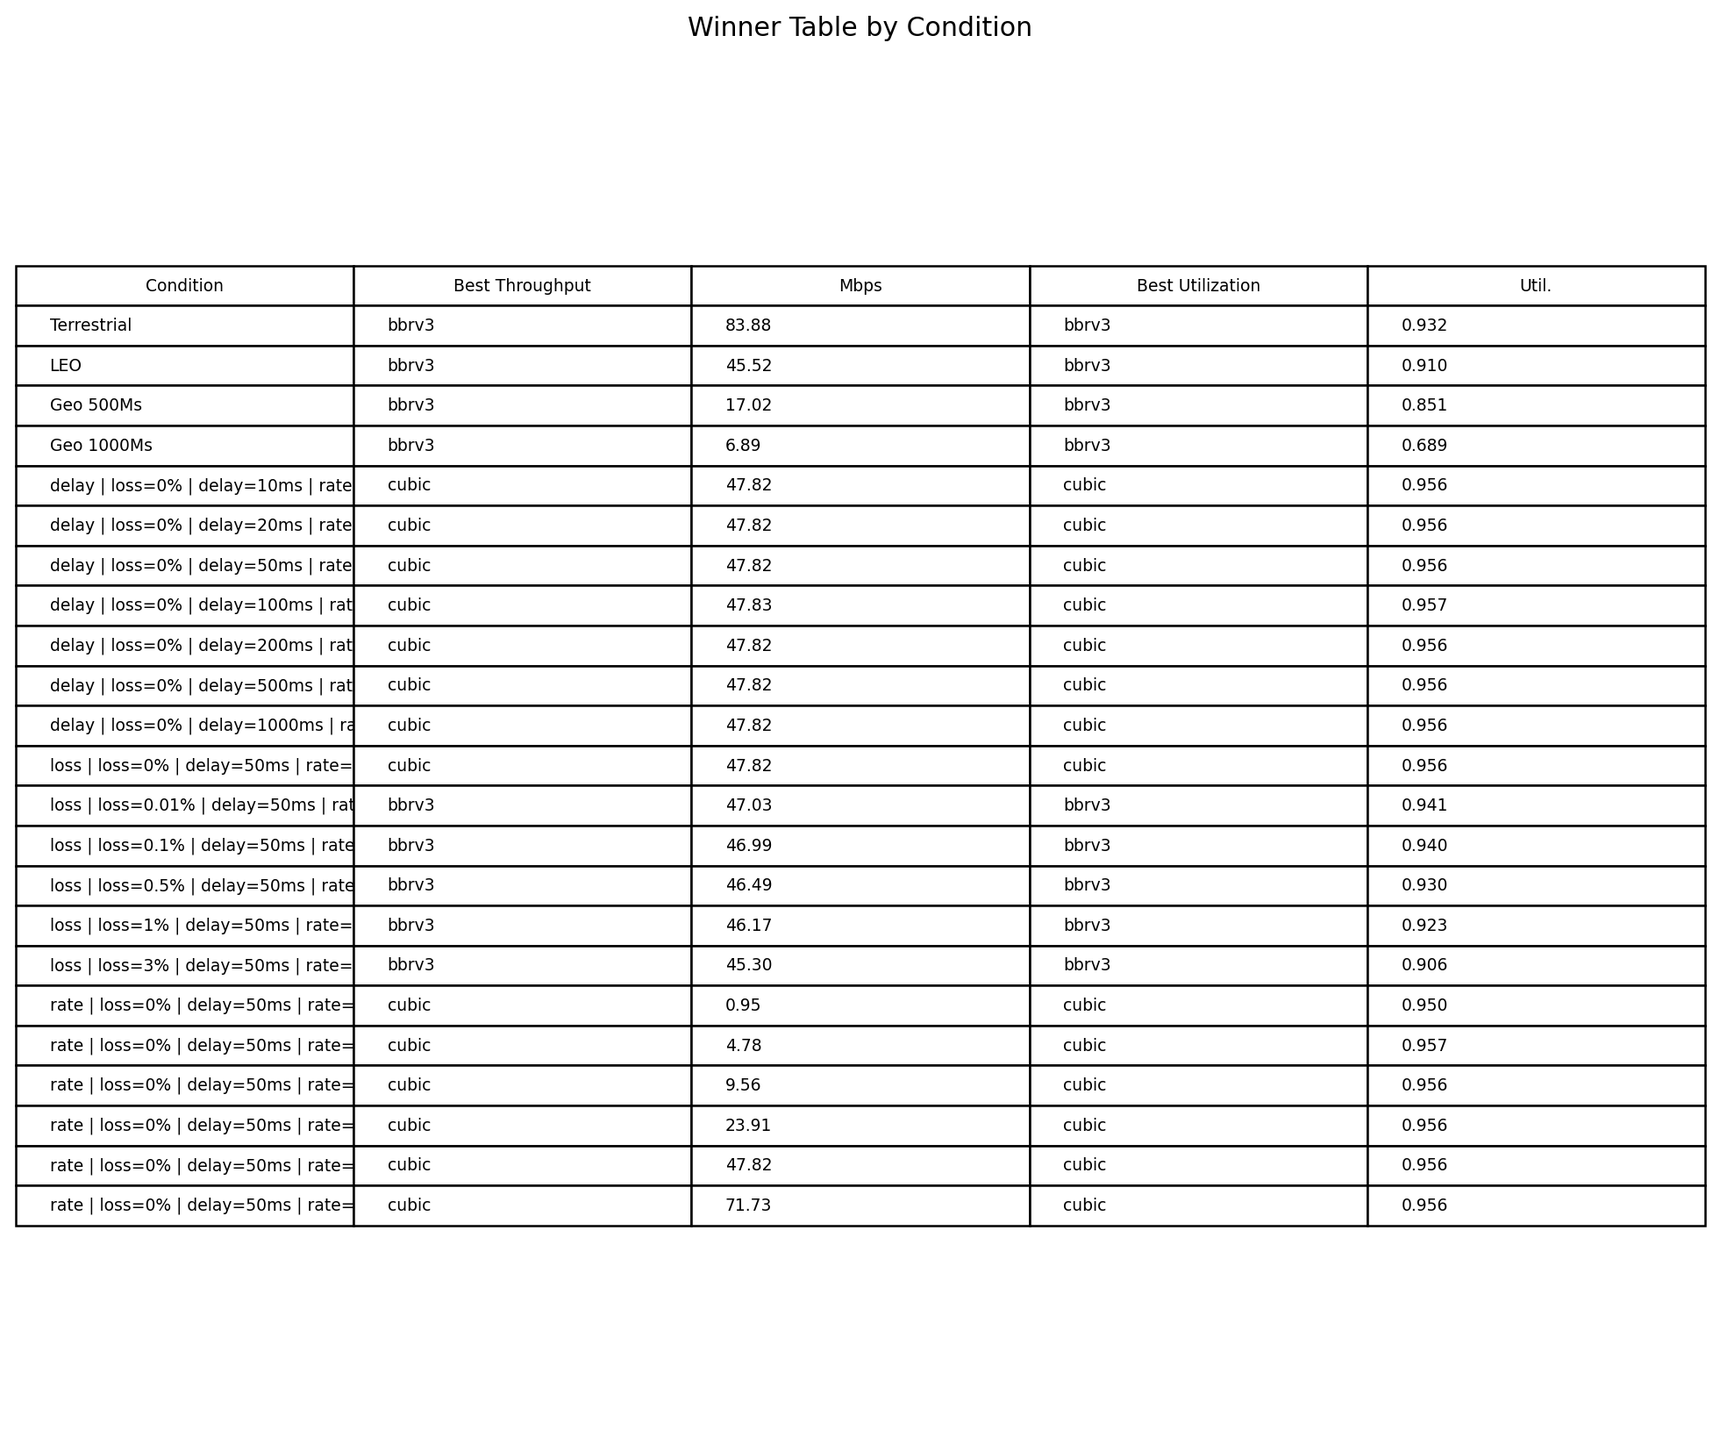
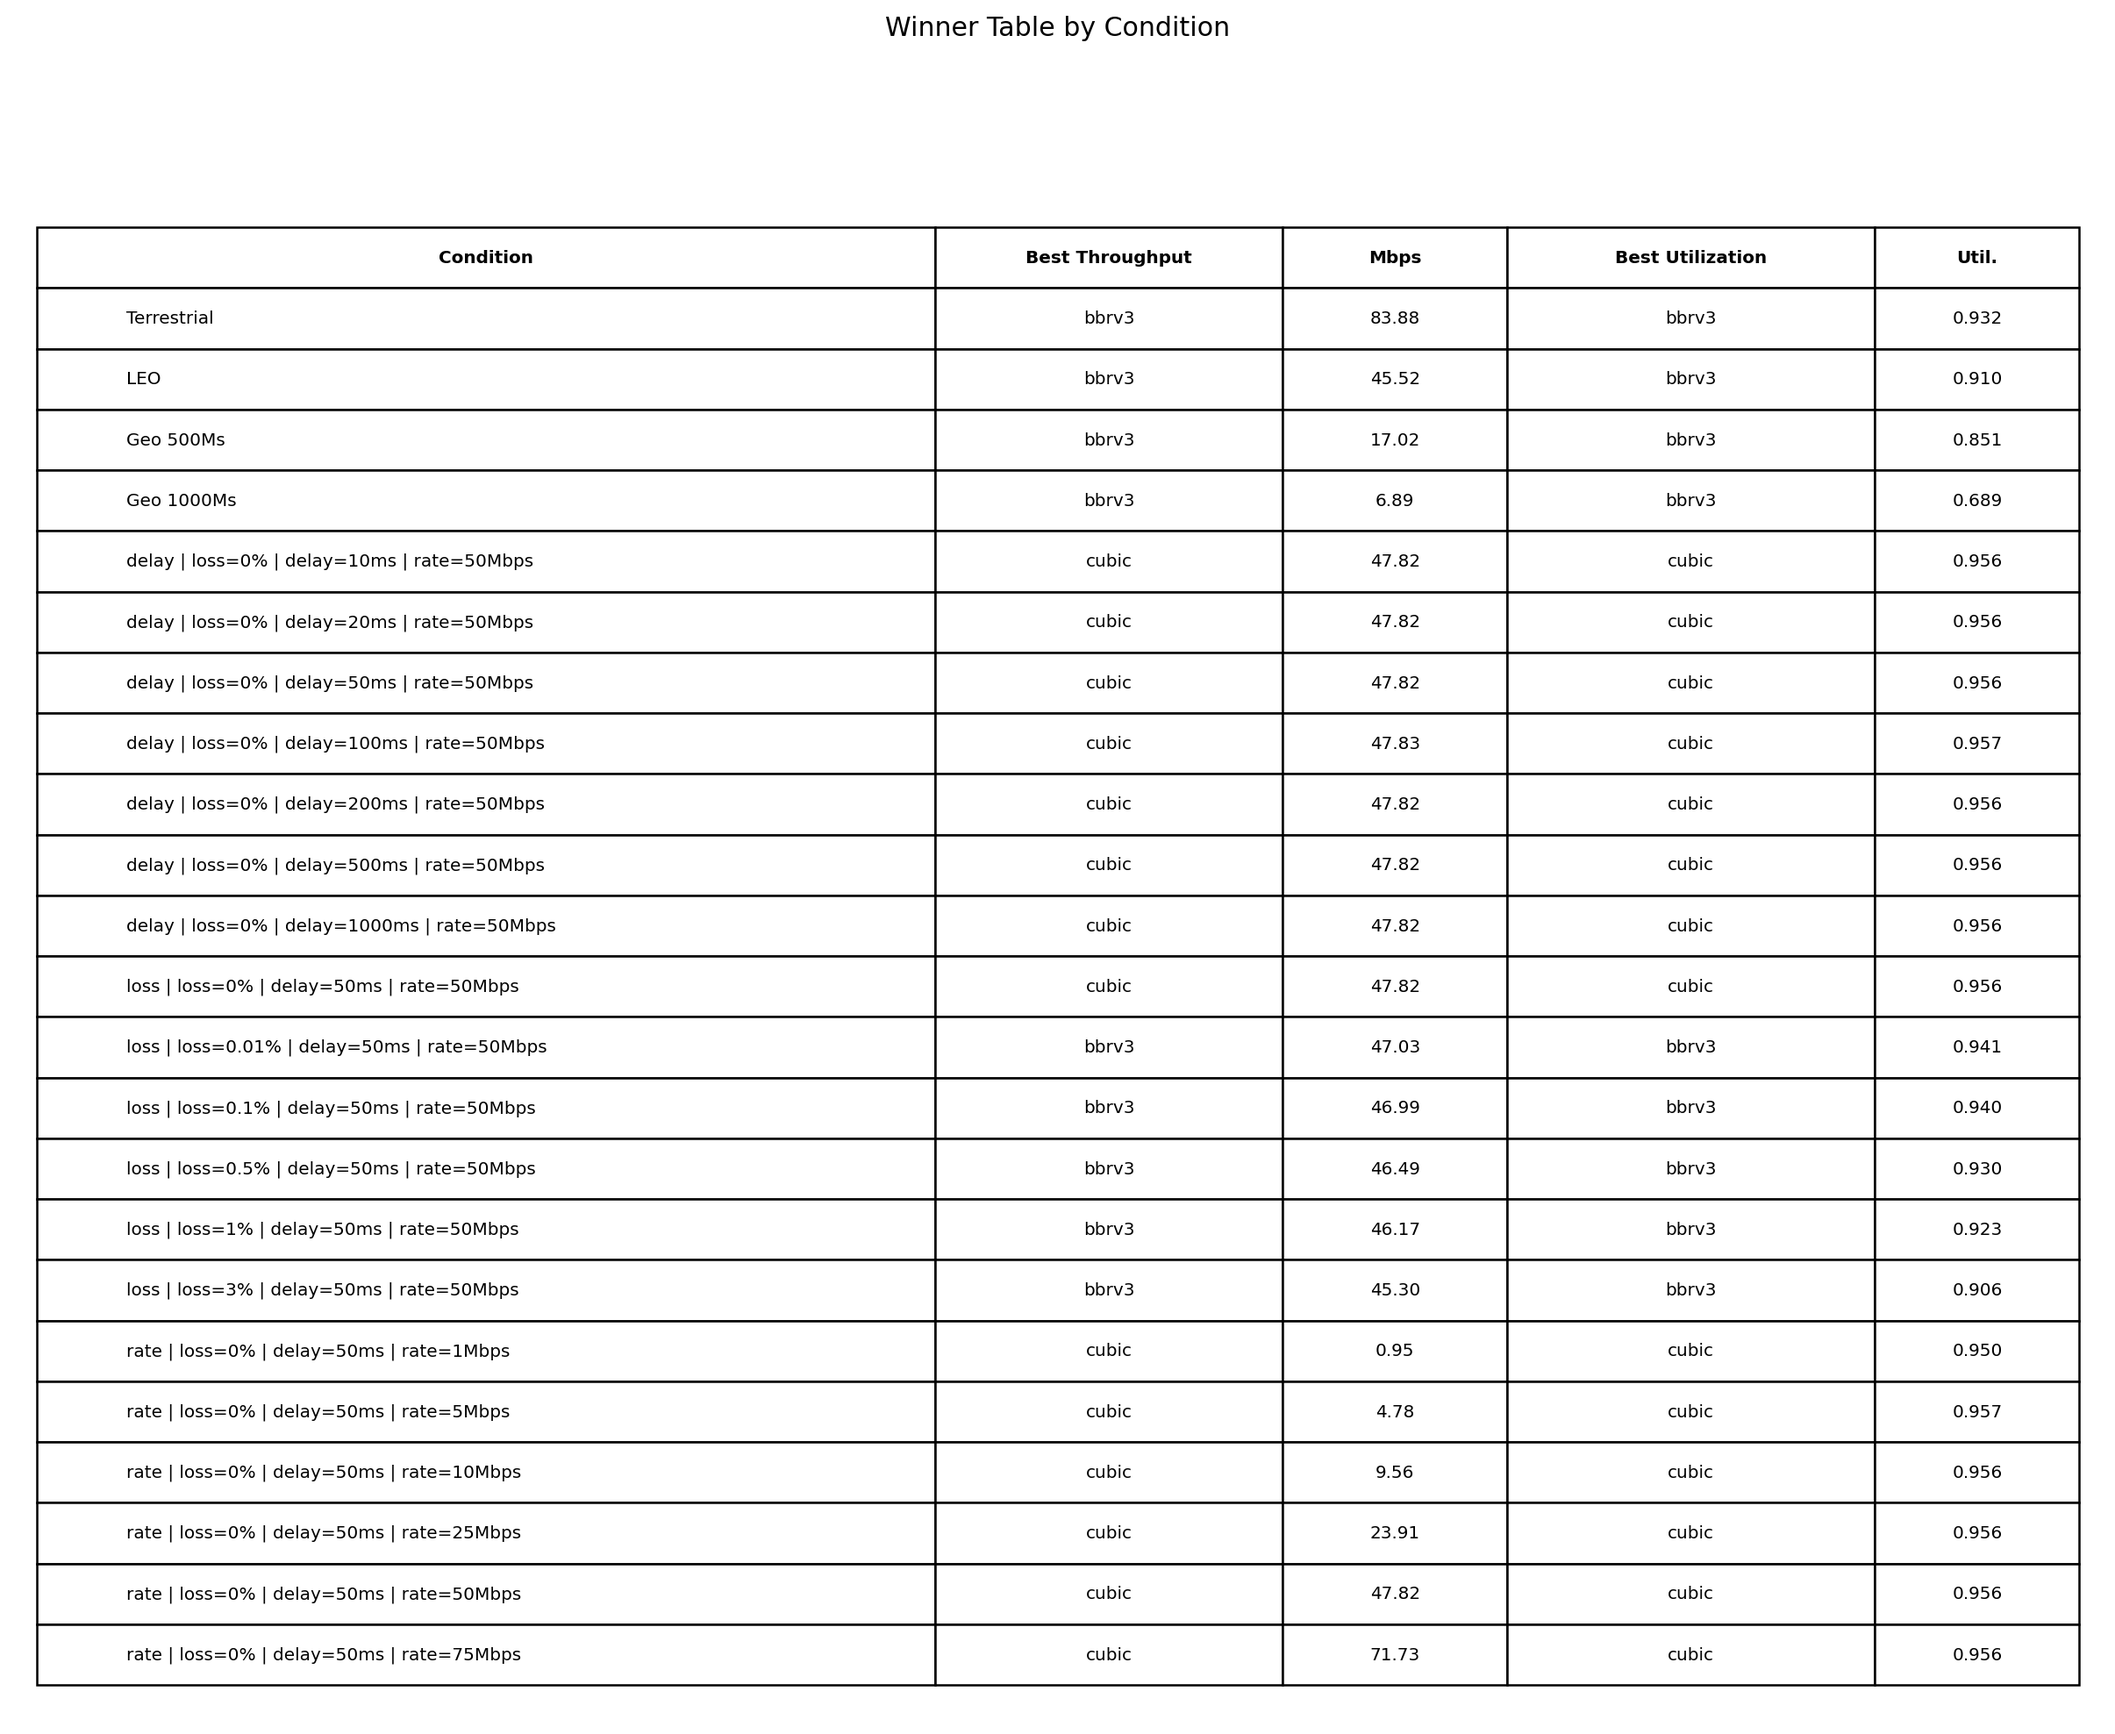
final fig fixes

diff --git a/analyze_results.py b/analyze_results.py
@@ -15,6 +15,7 @@ import os
 import re
 import statistics
 import tempfile
+import textwrap
 from pathlib import Path
 from typing import Any
 
@@ -1644,17 +1645,30 @@ def make_summary_plots(
 
     if not smoke and not winners_df.empty:
         visible = winners_df.copy()
+        visible["condition"] = visible["condition"].map(
+            lambda value: "\n".join(textwrap.wrap(str(value), width=48, break_long_words=False))
+        )
         visible["winner_throughput_mbps"] = visible["winner_throughput_mbps"].map(
             lambda value: f"{value:.2f}" if pd.notna(value) else ""
         )
         visible["winner_utilization"] = visible["winner_utilization"].map(
             lambda value: f"{value:.3f}" if pd.notna(value) else ""
         )
-        fig_height = max(4.0, min(14.0, 0.35 * len(visible) + 1.2))
-        fig, ax = plt.subplots(figsize=(11, fig_height))
+        max_condition_lines = max(str(value).count("\n") + 1 for value in visible["condition"])
+        row_scale = 1.2 + 0.35 * max(0, max_condition_lines - 1)
+        fig_height = max(7.5, min(12.0, 0.34 * len(visible) * row_scale + 1.7))
+        fig, ax = plt.subplots(figsize=(13.5, fig_height))
         ax.axis("off")
         table = ax.table(
-            cellText=visible.values,
+            cellText=visible[
+                [
+                    "condition",
+                    "throughput_winner",
+                    "winner_throughput_mbps",
+                    "utilization_winner",
+                    "winner_utilization",
+                ]
+            ].values,
             colLabels=[
                 "Condition",
                 "Best Throughput",
@@ -1662,12 +1676,20 @@ def make_summary_plots(
                 "Best Utilization",
                 "Util.",
             ],
+            colWidths=[0.44, 0.17, 0.11, 0.18, 0.10],
             cellLoc="left",
-            loc="center",
+            bbox=[0.01, 0.02, 0.98, 0.88],
         )
         table.auto_set_font_size(False)
-        table.set_fontsize(7.5)
-        table.scale(1, 1.25)
+        table.set_fontsize(8.0)
+        for (row, col), cell in table.get_celld().items():
+            cell.get_text().set_wrap(True)
+            if row == 0:
+                cell.set_text_props(weight="bold", ha="center")
+            elif col == 0:
+                cell.set_text_props(ha="left")
+            else:
+                cell.set_text_props(ha="center")
         ax.set_title("Winner Table by Condition", pad=12)
         save_figure(
             fig,
